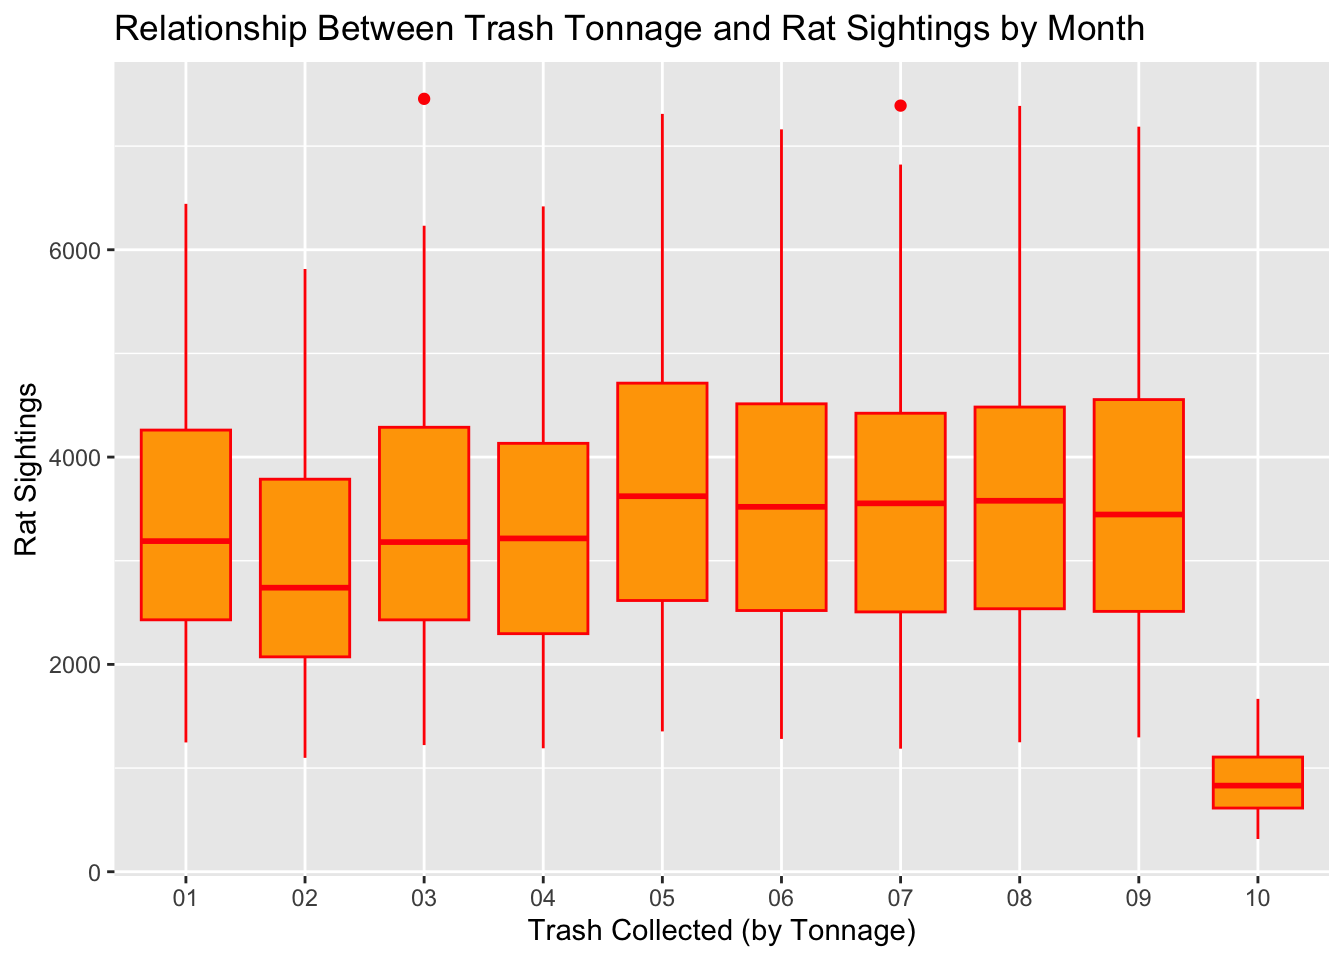
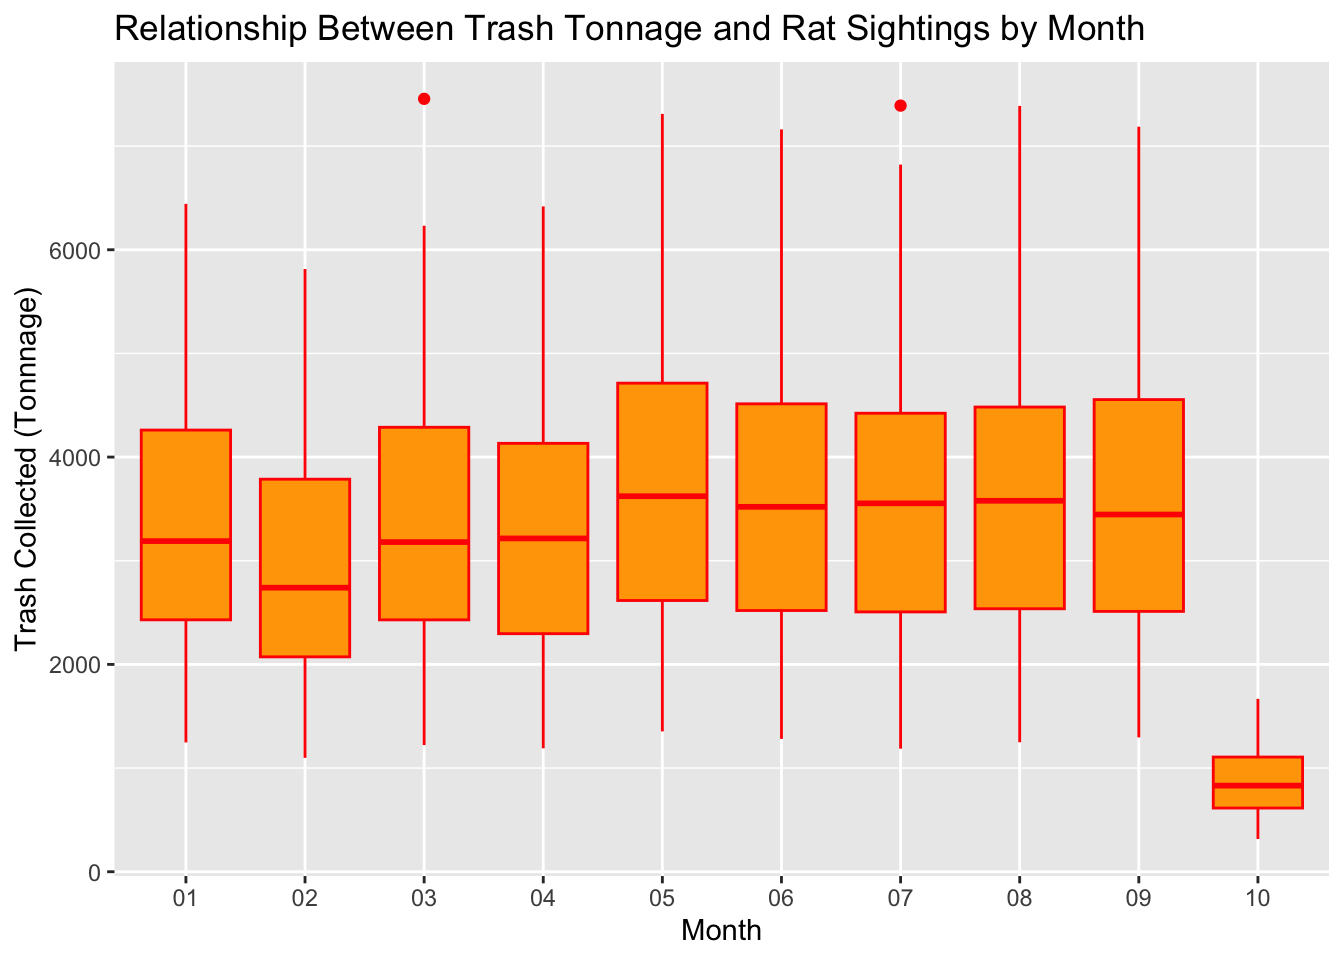
refining some graphs

Changed region(s): [[0.4062, 0.9375, 0.6875, 1.0], [0.0, 0.3125, 0.0312, 0.6875]]

diff --git a/visualizations.html b/visualizations.html
@@ -403,15 +403,15 @@ months.</p>
 <pre class="r"><code>ggplot(rat_activity_counts, aes(x = month, y = refusetonscollected, color = count)) +
   geom_boxplot(color=&quot;red&quot;,fill=&quot;orange&quot;) +
   labs(title = &quot;Relationship Between Trash Tonnage and Rat Sightings by Month&quot;,
-       x = &quot;Trash Collected (by Tonnage)&quot;,
-       y = &quot;Rat Sightings&quot;) </code></pre>
+       x = &quot;Month&quot;,
+       y = &quot;Trash Collected (Tonnnage)&quot;) </code></pre>
 <p><img src="visualizations_files/figure-html/unnamed-chunk-5-1.png" width="672" /></p>
 <p>This graph illustrates a proposed relationship between trash tonnage
 and rat sightings. Our group hypothesized that where there is more trash
 collected, there will be a higher rat presence.</p>
 </div>
-<div id="transit-app-graph" class="section level2">
-<h2>Transit App Graph</h2>
+<div id="transit-app-graphs" class="section level2">
+<h2>Transit App Graphs</h2>
 <pre class="r"><code>app_data &lt;- read_csv(&quot;data/Transit app rat reports - 2023-10-08 to 2023-11-07.csv&quot;)</code></pre>
 <pre><code>## Rows: 387 Columns: 7
 ## ── Column specification ────────────────────────────────────────────────────────
@@ -428,7 +428,14 @@ collected, there will be a higher rat presence.</p>
   theme(axis.text.x = element_text(angle = 60, hjust = 1))</code></pre>
 <pre><code>## `geom_smooth()` using method = &#39;loess&#39; and formula = &#39;y ~ x&#39;</code></pre>
 <p><img src="visualizations_files/figure-html/unnamed-chunk-6-1.png" width="672" /></p>
-<p>This graph illustrates how many rat sightings were recorded in
+<pre class="r"><code>ggplot(app_data, aes(x = station_id, y = so_many, color = borough)) + 
+  geom_point() + 
+  geom_smooth(se = FALSE) + 
+  facet_grid(. ~ borough) + 
+  theme(axis.text.x = element_text(angle = 60, hjust = 1))</code></pre>
+<pre><code>## `geom_smooth()` using method = &#39;loess&#39; and formula = &#39;y ~ x&#39;</code></pre>
+<p><img src="visualizations_files/figure-html/unnamed-chunk-7-1.png" width="672" /></p>
+<p>These graphs illustrate how many rat sightings were recorded in
 various subway stations in each borough. In this case, Manhattan has the
 most rat sightings compared to the other boroughs and Staten Island
 still has the least.</p>
